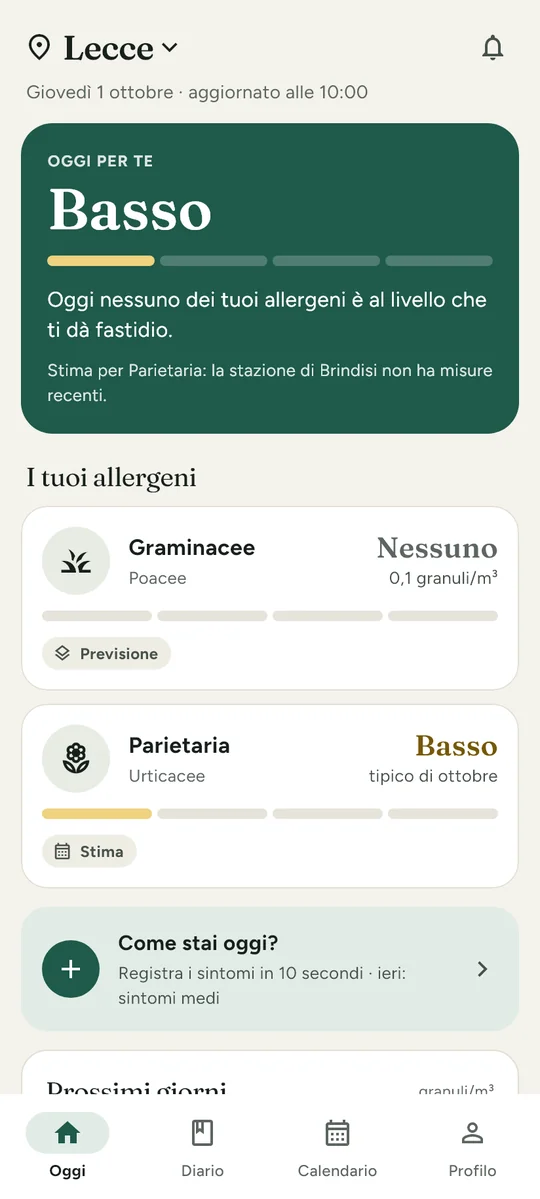
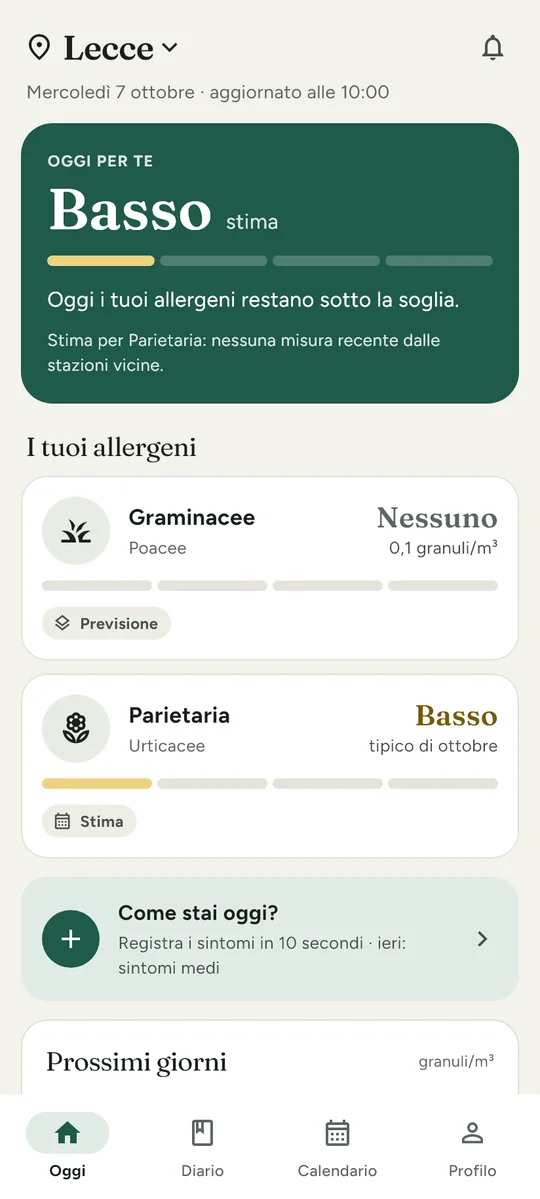
docs: README e screenshot con i nuovi testi degli avvisi

diff --git a/README.md b/README.md
@@ -32,7 +32,7 @@ Serve Android 7.0 o successivo.
 
 - 🧭 Oggi: livello della giornata, i tuoi allergeni, i prossimi giorni, l’aria e gli altri pollini in zona
 - 🏷 Ogni valore dice se è una **previsione**, una **misura** o una **stima**
-- 🔎 Dettaglio di ogni allergene: ora per ora, prossimi giorni, stagione e il livello da cui ti dà fastidio
+- 🔎 Dettaglio di ogni allergene: ora per ora, prossimi giorni, stagione e la tua soglia
 - 📓 Diario dei sintomi da 10 secondi, con i farmaci più usati già in lista, sonno e ore all’aperto
 - 📈 Andamento: per ogni allergene, se stai peggio quando ce n’è di più, e giorno per giorno
 - 🗓 Calendario stagionale per **Nord**, **Centro** e **Sud e Isole**
@@ -49,11 +49,13 @@ Serve Android 7.0 o successivo.
 
 L’app può mandare tre avvisi, ognuno con il suo orario, anche ad app chiusa:
 
-- ☀ **Pollini di oggi**, la mattina: cosa ti dà fastidio oggi, anche solo nei giorni in cui serve
-- 📈 **Allerta per domani**, la sera: se domani un tuo allergene arriva al livello che ti dà fastidio
-- 📓 **Promemoria diario**, se oggi non hai ancora registrato
+- ☀ **Pollini di oggi**, ogni mattina: i tuoi pollini della giornata, anche solo nei giorni sopra la tua soglia
+- 📈 **Allerta per domani**, la sera prima: se domani un tuo allergene supera la soglia
+- 📓 **Promemoria diario**, la sera, se oggi non hai ancora registrato
 
-Con il permesso «Sveglie e promemoria» arrivano all’orario esatto; senza, possono tardare fino a un’ora.
+La soglia è il livello da cui un allergene ti dà fastidio: la scegli per ognuno in «I miei allergeni».
+
+Con «Orario esatto» attivo (permesso Android «Sveglie e promemoria») arrivano all’ora scelta; senza, possono tardare fino a un’ora.
 
 Le notifiche sono gestite su Android tramite:
 
